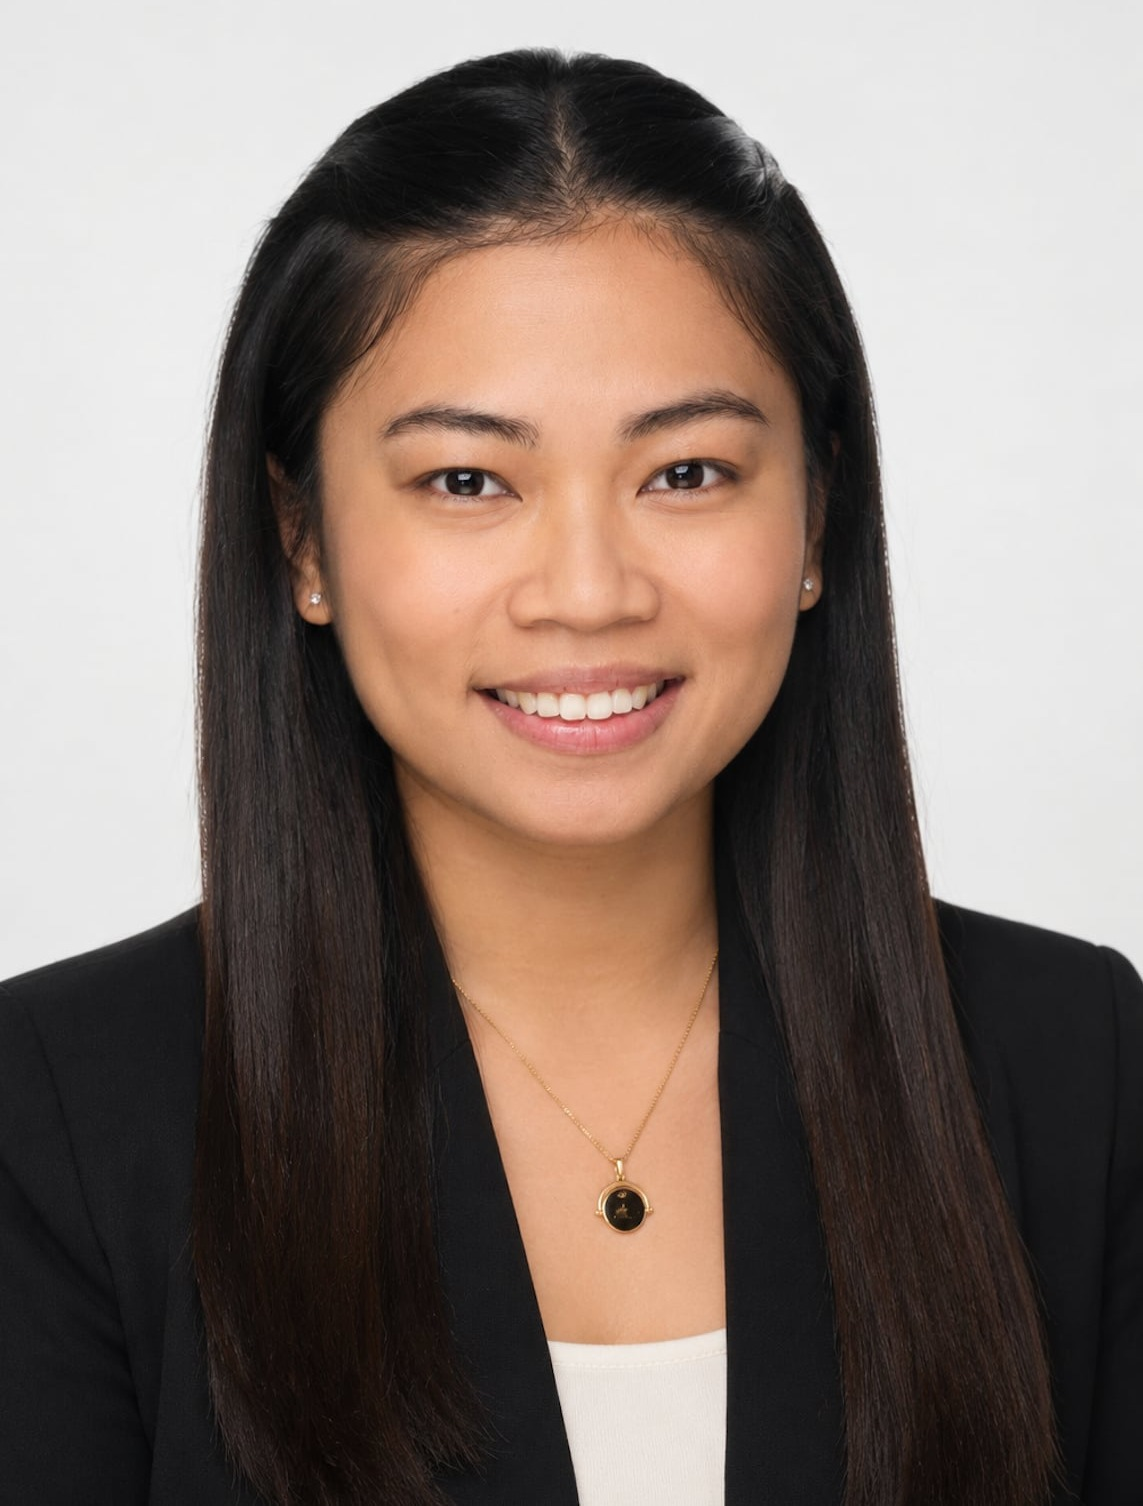
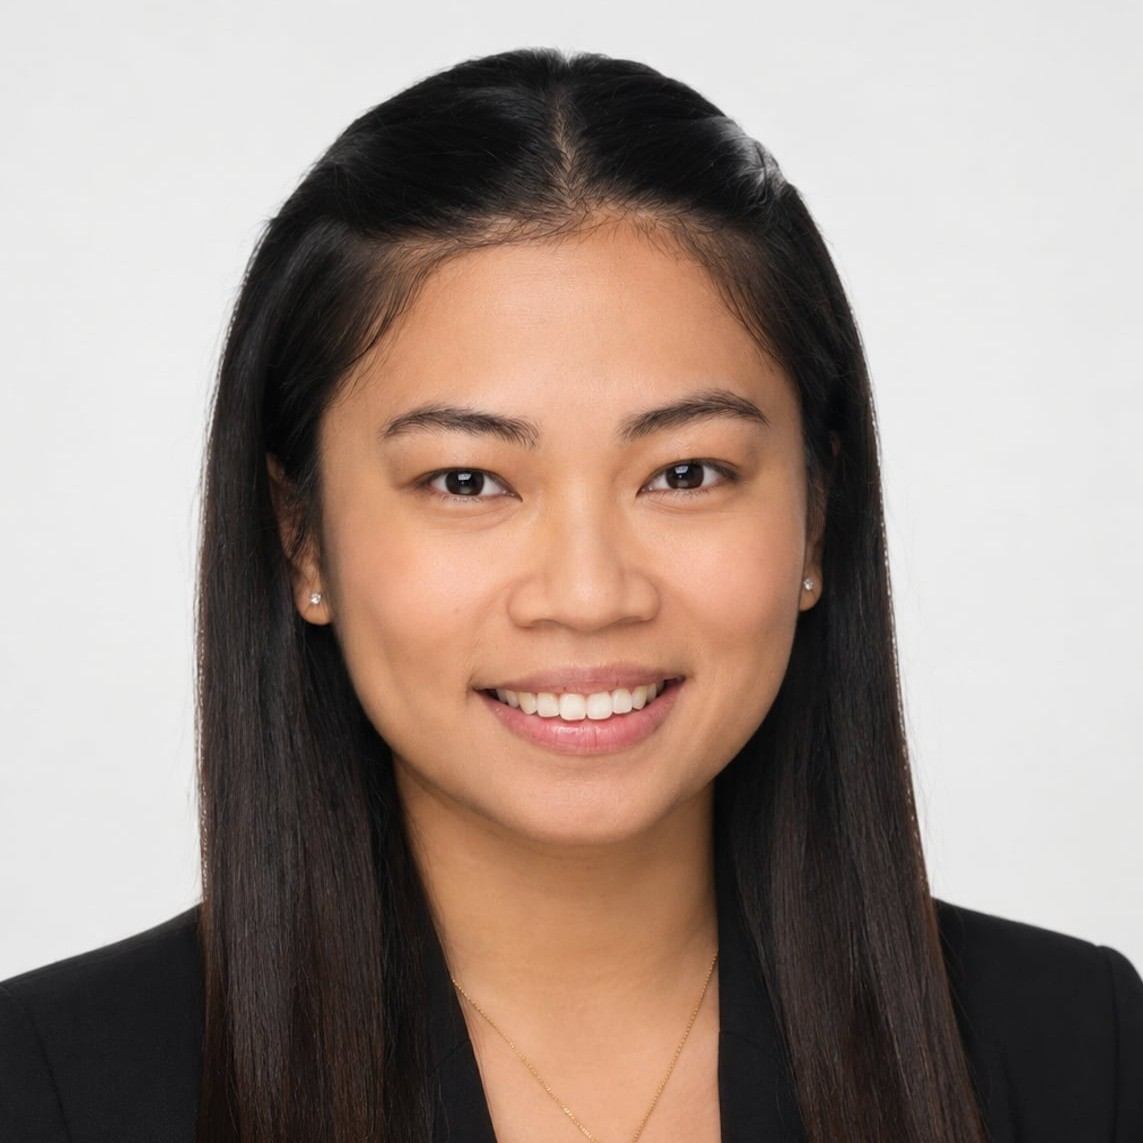
Match team photo framing for both members
Square the team-photo box (1:1) to match Mar Anthony's headshot
aspect, crop Samantha's photo to the same square framing, and
switch to object-fit: cover so both photos fill their card edge to
edge with no mismatched background gaps.

diff --git a/alimo-ot-ilejay-pwa/css/styles.css b/alimo-ot-ilejay-pwa/css/styles.css
@@ -195,10 +195,10 @@ header.scrolled{box-shadow:0 4px 16px rgba(10,10,12,.06);}
 .about .highlight{color:var(--ink);font-weight:700;}
 .team-grid{display:grid;grid-template-columns:1fr 1fr;gap:40px;margin-top:20px;}
 .team-card{background:#fff;border:1px solid var(--line);padding:0 0 32px;}
-.team-photo{aspect-ratio:16/10;position:relative;overflow:hidden;background:var(--ink);margin-bottom:26px;}
+.team-photo{aspect-ratio:1/1;position:relative;overflow:hidden;background:var(--ink);margin-bottom:26px;}
 .team-photo svg{position:absolute;inset:0;width:100%;height:100%;}
 .team-photo.has-photo{background:#fff;}
-.team-photo img{width:100%;height:100%;object-fit:contain;display:block;}
+.team-photo img{width:100%;height:100%;object-fit:cover;object-position:center top;display:block;}
 .team-photo .tag{
   position:absolute;left:0;bottom:0;right:0;color:#fff;font-size:10px;letter-spacing:.1em;
   text-transform:uppercase;background:rgba(10,10,12,.75);padding:10px 16px;font-weight:600;
